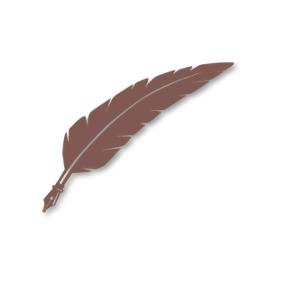
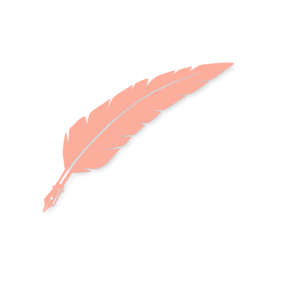
Create and adjusted the navigation bar. adjusted the strucuter of the project.

Changed region(s): [[0.1418, 0.1986, 0.8511, 0.766]]

diff --git a/public/css/index.css b/public/css/index.css
@@ -1,39 +1,52 @@
-*{ 
-    margin:0;
-    padding: 0;    
-    font-family: 'Poppins', Arial, sans-serif;
-    box-sizing: border-box;
+* {
+  margin: 0;
+  padding: 0;
+  font-family: "Poppins", Arial, sans-serif;
+  box-sizing: border-box;
 }
 
-.navbar{
-    background-color: #001000;
-    color: white;
-    padding: 10px;
-    text-align: center;
-    position: sticky;
-    
-    display: flex;
-    justify-content: space-between;
-    text-decoration: none;
+.navbar {
+  background-color: #001000;
+  color: white;
+  padding: 0.3rem;
+  text-align: center;
+  position: sticky;
 }
 
-.navimg{
-    width: 12rem;
-    height: 5rem;
+a {
+  display: flex;
+  color: #f5bcb9;
+  text-decoration: none;
+  align-items: center;
 }
 
-.navButtons > *{
-    border-radius: 2rem;
-    padding: 0.3rem;
+.navbar-container {
+  text-align: center;
+  display: flex;
+  justify-content: space-between;
 }
 
-.unlitButton{
-    background-color: #001000;
-    color: #f5bcb9;
-    border-color: #f5bcb9;
+.navbar-menu {
+  display: flex;
+  justify-content: space-between;
+  align-items: center;
+  padding: 0.5rem;
 }
 
-.litButton{
-    background-color: #f5bcb9;
-    color: black;
+img {
+  width: 6rem;
+  height: 5rem;
+}
+
+button,
+select,
+input {
+  border-radius: 2rem;
+  padding: 0.2rem;
+}
+
+.auth-buttons > button {
+  background-color: #001000;
+  color: #f5bcb9;
+  border-color: #f5bcb9;
 }

diff --git a/views/user/login.php b/views/user/login.php
@@ -1,0 +1,31 @@
+<?php
+require 'layout/header.php';
+?>
+
+
+<!DOCTYPE html>
+<html lang="en">
+
+<head>
+    <meta charset="UTF-8">
+    <meta name="viewport" content="width=device-width, initial-scale=1.0">
+    <title>
+        Login
+    </title>
+    <link rel="stylesheet" href="/css/login.css">
+</head>
+
+<body>
+    <form action="/User.php" method="post">
+        <h2>Login</h2>
+        <?php if (isset($error)) : ?>
+            <p class="error"><?php echo htmlspecialchars($error); ?></p>
+        <?php endif; ?>
+
+        <input type="text" name="username" placeholder="Username" required>
+        <input type="password" name="password" placeholder="Password" required>
+        <button type="submit">Login</button>
+    </form>
+</body>
+
+</html>

diff --git a/views/home.php b/views/home.php
@@ -1,8 +1,19 @@
 <?php
-//a navbar with logo image link to home page, and a drop down brwose button, a search bar with placeholder and 2 buttons saying sighup or login
-
-// views/home.php
-
-require 'partials/header.php';
-
+require 'layout/header.php';
 ?>
+
+<!DOCTYPE html>
+<html lang="en">
+
+<head>
+    <meta charset="UTF-8">
+    <meta name="viewport" content="width=device-width, initial-scale=1.0">
+    <title>Freewrite | Free write your fantasies</title>
+</head>
+
+<body>
+    <h1>Welcome to our website!</h1>
+    <p>Feel free to browse around.</p>
+</body>
+
+</html>

diff --git a/models/User.php b/models/User.php
@@ -1,4 +1,5 @@
 <?php
+require 'config/database.php';
 class User {
     private $db;
 
@@ -7,7 +8,7 @@ class User {
     }
 
     public function authenticate($username, $password) {
-        $sql = "SELECT id, username, password FROM users WHERE username = ?";
+        $sql = "SELECT userID, username, `password` FROM User WHERE username = ?";
         $stmt = $this->db->prepare($sql);
         $stmt->execute([$username]);
         $user = $stmt->fetch(PDO::FETCH_ASSOC);

diff --git a/views/user/signup.php b/views/user/signup.php
@@ -1,3 +1,8 @@
+<?php
+require 'layout/header.php';
+?>
+
+
 <!DOCTYPE html>
 <html lang="en">
 
@@ -5,7 +10,6 @@
     <meta charset="UTF-8">
     <meta name="viewport" content="width=device-width, initial-scale=1.0">
     <title>
-        <link rel="icon" type="image/x-icon" href="/images/FeatherIcon.ico">
         Login
     </title>
     <link rel="stylesheet" href="/css/login.css">
